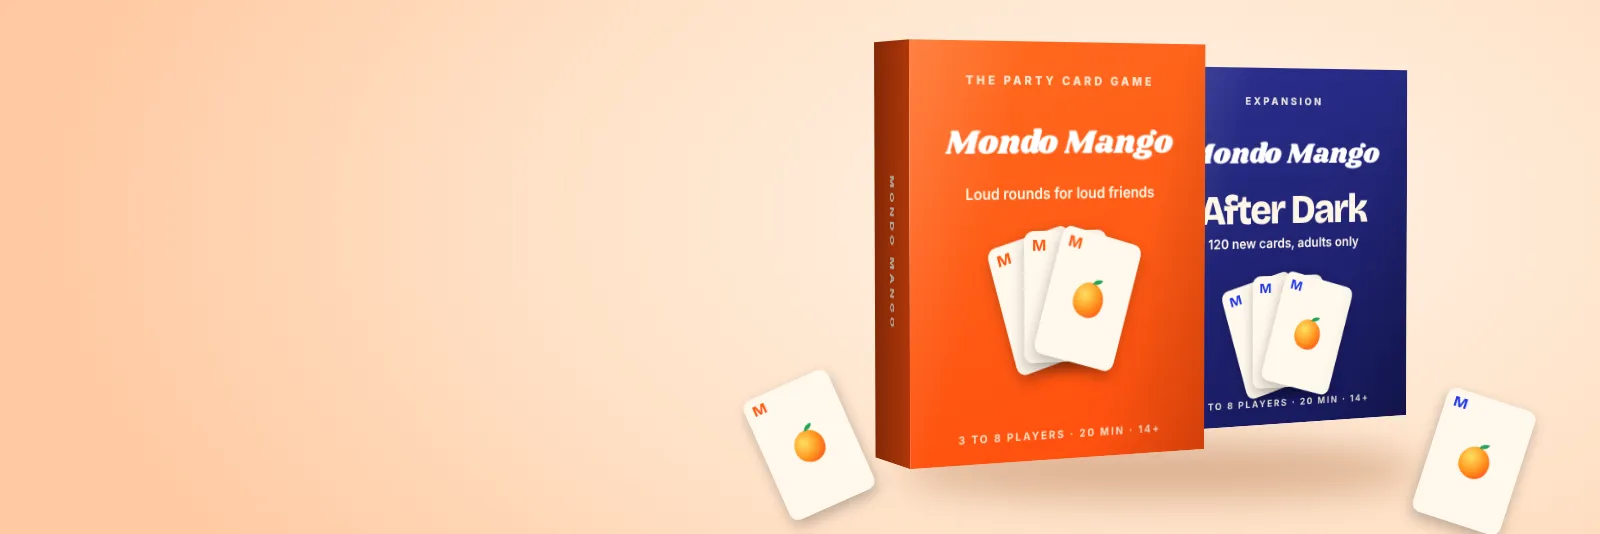
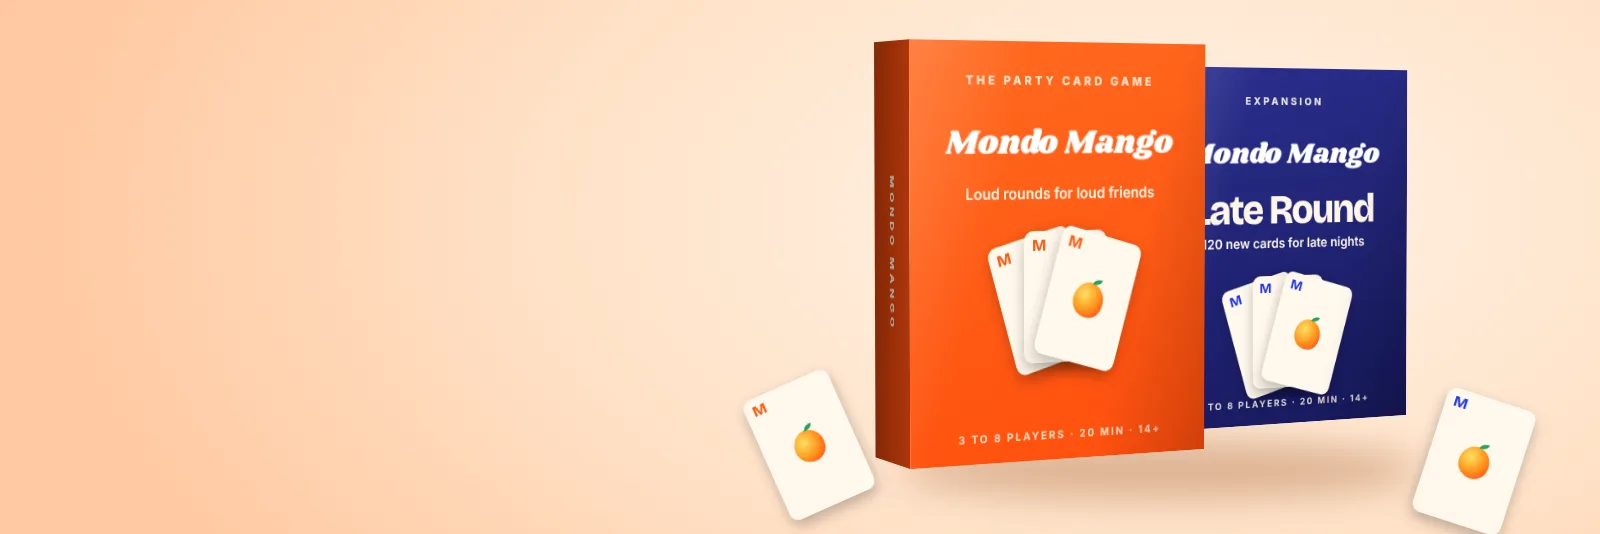
Home: the Mondo Mango expansion is Late Round, not After Dark
Claude-Session: https://claude.ai/code/session_019eisRTo26DLMG3moy2JJ5E

Changed region(s): [[0.75, 0.3596, 0.875, 0.4195], [0.75, 0.4494, 0.875, 0.4794]]

diff --git a/tests/home-landing-r8-ideas.test.ts b/tests/home-landing-r8-ideas.test.ts
@@ -53,8 +53,9 @@ check("a wordmark in the middle of the header, drawn as a picture (no webfont to
 check("the header's links, small and tracked", ["Shop all", "Expansions", "How to play", "Search", "Bag (2)"].every((w) => site.includes(w)) && /\.mg-links\{[^}]*letter-spacing:\.16em;text-transform:uppercase/.test(BUILDER_CSS))
 check("a cover: one studio picture in the hero", (site.match(/mm-studio\.webp/g) ?? []).length === 1 && /class="smk-pic mg-studio"/.test(site) && !/pw-hero|Everyday cotton|Porto|mg-wall|mg-sticker/.test(site + read(F.builders)))
 const prices = [...site.matchAll(/<span class="mg-price">(?:<s>€\d+<\/s>)?€(\d+)<\/span>/g)].map((m) => Number(m[1]))
-check("the game, its expansion, a family edition and a bundle, priced like real games", prices.length === 4 && prices.every((p) => p >= 15 && p <= 90) && ["Mondo Mango", "After Dark expansion", "Family Edition", "The Whole Crate"].every((n) => site.includes(n)))
-check("every picture is real, webp and under 120 KB", ["mm-studio", "mm-logo", "mm-game", "mm-after-dark", "mm-family", "mm-crate"].every((n) => small(n) && site.includes(`/home/showcase/${n}.webp`)))
+// Changed on purpose (landing round 11, lead): the owner turned down an "After Dark" product in round 5, so the expansion is Late Round.
+check("the game, its expansion, a family edition and a bundle, priced like real games", prices.length === 4 && prices.every((p) => p >= 15 && p <= 90) && ["Mondo Mango", "Late Round expansion", "Family Edition", "The Whole Crate"].every((n) => site.includes(n)))
+check("every picture is real, webp and under 120 KB", ["mm-studio", "mm-logo", "mm-game", "mm-late-round", "mm-family", "mm-crate"].every((n) => small(n) && site.includes(`/home/showcase/${n}.webp`)))
 check("Plain Weather and its pictures are gone", !/Plain Weather|plainweather|PlainWeather|\bpw-/.test(code(F.builders) + code(F.ideas)) && ["pw-hero", "pw-tee-white", "pw-tee-black", "pw-hoodie", "pw-cap"].every((n) => !existsSync(pic(n))))
 check("the page is white with no gradient", /\.mg\{[^}]*background:#fff;/.test(BUILDER_CSS) && !/\.mg[^{]*\{[^}]*gradient/.test(BUILDER_CSS))
 // Changed on purpose (landing round 11): two sites, so two pairs of rings.

diff --git a/tests/home-landing-r5-middle.test.ts b/tests/home-landing-r5-middle.test.ts
@@ -72,7 +72,7 @@ const wb = renderToStaticMarkup(createElement(WebsiteBuilderMock))
 // Changed on purpose (landing round 8): the owner wants the merch brand "more bold, more colorful, more funky, like a real Storelib store": Mondo Mango replaces Plain Weather; tests/home-landing-r8-ideas.test.ts pins it.
 // Changed on purpose (landing round 11): Mondo Mango sells a party card game, product shots of its boxes under a studio hero; tests/home-landing-r11-top.test.ts pins it.
 check("Mondo Mango in the builder with its own address", site.includes("Bestsellers") && wb.includes("Mondo Mango") && wb.includes("mondomango.shop"))
-check("its pictures exist, are webp and small", ["mm-studio", "mm-logo", "mm-game", "mm-after-dark", "mm-family", "mm-crate"].every((n) => small(`public/home/showcase/${n}.webp`, 120) && site.includes(`/home/showcase/${n}.webp`)))
+check("its pictures exist, are webp and small", ["mm-studio", "mm-logo", "mm-game", "mm-late-round", "mm-family", "mm-crate"].every((n) => small(`public/home/showcase/${n}.webp`, 120) && site.includes(`/home/showcase/${n}.webp`)))
 check("no gradient, the drop on white", !/\.mg[^{]*\{[^}]*gradient/.test(BUILDER_CSS) && /\.mg\{[^}]*background:#fff/.test(BUILDER_CSS)) // Changed on purpose (landing round 8): the owner wants the merch brand "more bold, more colorful, more funky, like a real Storelib store": Mondo Mango replaces Plain Weather; tests/home-landing-r8-ideas.test.ts pins it.
 check("no Saltmoor left", !/Saltmoor|saltmoor|\bsm-/.test(read(F.builders) + read(F.ideas)) && !existsSync("public/home/showcase/sm-hero.webp"))
 check("no Field Day, no caps left", !/Field Day|FIELD|fielddaysupply|fd-cap|Marigold/.test(read(F.builders) + read(F.ideas)) && !existsSync("public/home/showcase/fd-hero.webp"))

diff --git a/tests/home-landing-r11-top.test.ts b/tests/home-landing-r11-top.test.ts
@@ -68,7 +68,7 @@ const site = renderToStaticMarkup(createElement(MondoMangoSite))
 const hero = site.slice(site.indexOf('class="mg-hero"'), site.indexOf('class="mg-shop"'))
 check("the hero is one studio picture of the game, the words on it", /src="\/home\/showcase\/mm-studio\.webp"[^>]*width="1600" height="534"/.test(hero) && (hero.match(/<img /g) ?? []).length === 1 && /<b>Game night, but louder\.<\/b>/.test(hero))
 check("no orange block, no sticker, no wall photograph left", !/mg-sticker|mg-wall|mm-hero|Wear it loud/.test(site + BUILDER_CSS))
-check("four products, each a shot of its box", ["mm-game", "mm-after-dark", "mm-family", "mm-crate"].every((n) => site.includes(`/home/showcase/${n}.webp`) && webp(`home/showcase/${n}.webp`, 60)))
+check("four products, each a shot of its box", ["mm-game", "mm-late-round", "mm-family", "mm-crate"].every((n) => site.includes(`/home/showcase/${n}.webp`) && webp(`home/showcase/${n}.webp`, 60)))
 check("the old garment photos are gone", !/mm-(crew|cap|tee|tote)/.test(site + read(F.builders)) && !existsSync(join(root, "public/home/showcase/mm-crew.webp")))
 check("two are on sale, the old price struck through", (site.match(/class="mg-sale">On sale</g) ?? []).length === 2 && /<s>€35<\/s>€29/.test(site))
 check("the studio picture is small", webp("home/showcase/mm-studio.webp", 120))

diff --git a/tests/home-landing-topb4.test.ts b/tests/home-landing-topb4.test.ts
@@ -88,7 +88,7 @@ const wb = renderToStaticMarkup(createElement(WebsiteBuilderMock))
 // Changed on purpose (landing round 8): the owner wants the merch brand "more bold, more colorful, more funky, like a real Storelib store": Mondo Mango replaces Plain Weather; tests/home-landing-r8-ideas.test.ts pins it.
 // Changed on purpose (landing round 11): Mondo Mango sells a party card game, product shots of its boxes under a studio hero, and the builder moves on to loudlib (two sites, two pairs of rings); tests/home-landing-r11-top.test.ts pins it.
 check("Mondo Mango, a real looking store", site.includes("Bestsellers") && wb.includes("Mondo Mango"))
-check("its products are pictures that exist and are small", ["mm-studio", "mm-logo", "mm-game", "mm-after-dark", "mm-family", "mm-crate"].every((n) => {
+check("its products are pictures that exist and are small", ["mm-studio", "mm-logo", "mm-game", "mm-late-round", "mm-family", "mm-crate"].every((n) => {
   const f = join(root, `public/home/showcase/${n}.webp`)
   return existsSync(f) && statSync(f).size < 120_000 && site.includes(`/home/showcase/${n}.webp`)
 }))

diff --git a/components/marketing/home/showcase-mocks/builder-mocks.tsx b/components/marketing/home/showcase-mocks/builder-mocks.tsx
@@ -130,7 +130,7 @@ function Cursor({ className }: { className: string }) {
 type Product = { pic: string; name: string; price: string; was?: string }
 const MM_PRODUCTS: Product[] = [
   { pic: "mm-game", name: "Mondo Mango", price: "€29", was: "€35" },
-  { pic: "mm-after-dark", name: "After Dark expansion", price: "€19" },
+  { pic: "mm-late-round", name: "Late Round expansion", price: "€19" },
   { pic: "mm-family", name: "Family Edition", price: "€25" },
   { pic: "mm-crate", name: "The Whole Crate", price: "€59", was: "€73" },
 ]
@@ -175,7 +175,7 @@ export function MondoMangoSite({ rings = false }: { rings?: boolean }) {
       <div className="mg-hero">
         <Pic n="mm-studio" w={1600} h={534} className="mg-studio" />
         <span className="mg-pitch">
-          <i className="mg-kicker">New: After Dark expansion</i>
+          <i className="mg-kicker">New: Late Round expansion</i>
           <b>Game night, but louder.</b>
           <span className="mg-line">A party card game for 3 to 8 players. Twenty minute rounds.</span>
           <span className="mg-acts">
